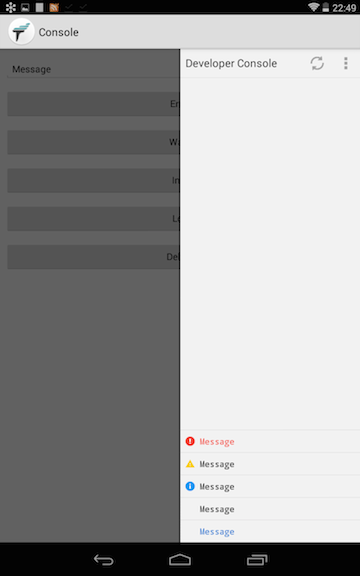
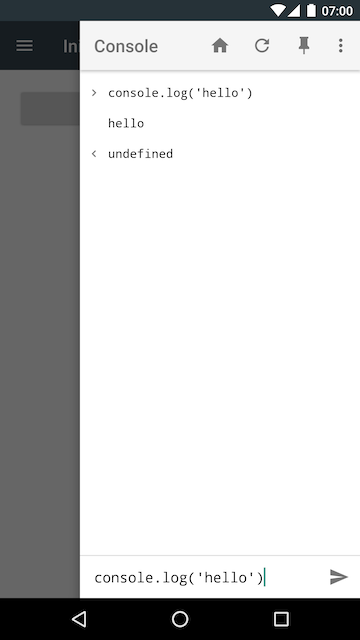
[docs] Update Developer App screenshots

diff --git a/doc/developer-app.md b/doc/developer-app.md
@@ -63,6 +63,8 @@ In the URL tab of the Developer App, enter:
 
     http://<development-machine-ip-address>:8080/
 
+![App URL](img/app-url.png)
+
 Now tap *Connect* to run the app:
 
 ![Android Developer App](img/hello.png)
